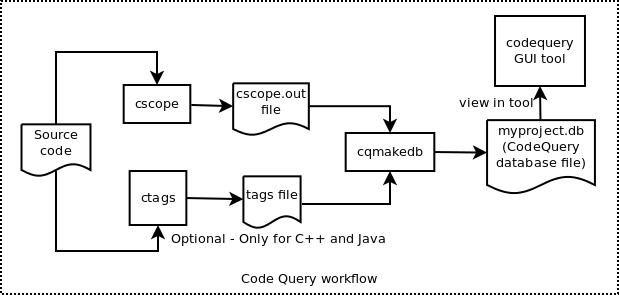
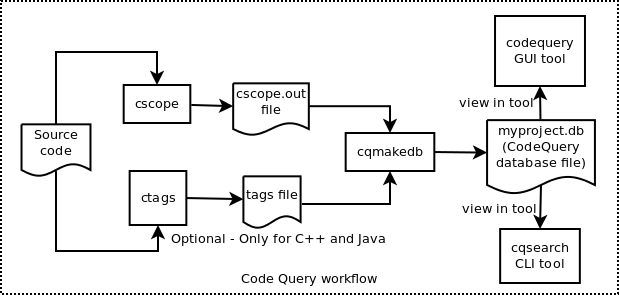
added cqsearch to docs

Changed region(s): [[0.7367, 0.6407, 0.9515, 0.9763]]

diff --git a/doc/HOWTO-LINUX.md b/doc/HOWTO-LINUX.md
@@ -37,7 +37,7 @@ ctags --fields=+i -n -R
 cqmakedb -s ./myproject.db -c ./cscope.out -t ./tags -p
 ```
 
-6. Open myproject.db using the CodeQuery GUI tool by running the following. Wild card search (* and ?) supported if Exact Match is switched off.
+6. Open myproject.db using the CodeQuery GUI tool by running the following. Wild card search (* and ?) supported if Exact Match is switched off. Or use cqsearch, the CLI-version of CodeQuery (type `cqsearch -h` for more info).
 ```bash
 codequery
 ```
@@ -73,7 +73,7 @@ ctags --fields=+i -n -R -L ./cscope.files
 cqmakedb -s ./myproject.db -c ./cscope.out -t ./tags -p
 ```
 
-6. Open myproject.db using the CodeQuery GUI tool by running the following. Wild card search (* and ?) supported if Exact Match is switched off.
+6. Open myproject.db using the CodeQuery GUI tool by running the following. Wild card search (* and ?) supported if Exact Match is switched off. Or use cqsearch, the CLI-version of CodeQuery (type `cqsearch -h` for more info).
 ```bash
 codequery
 ```
